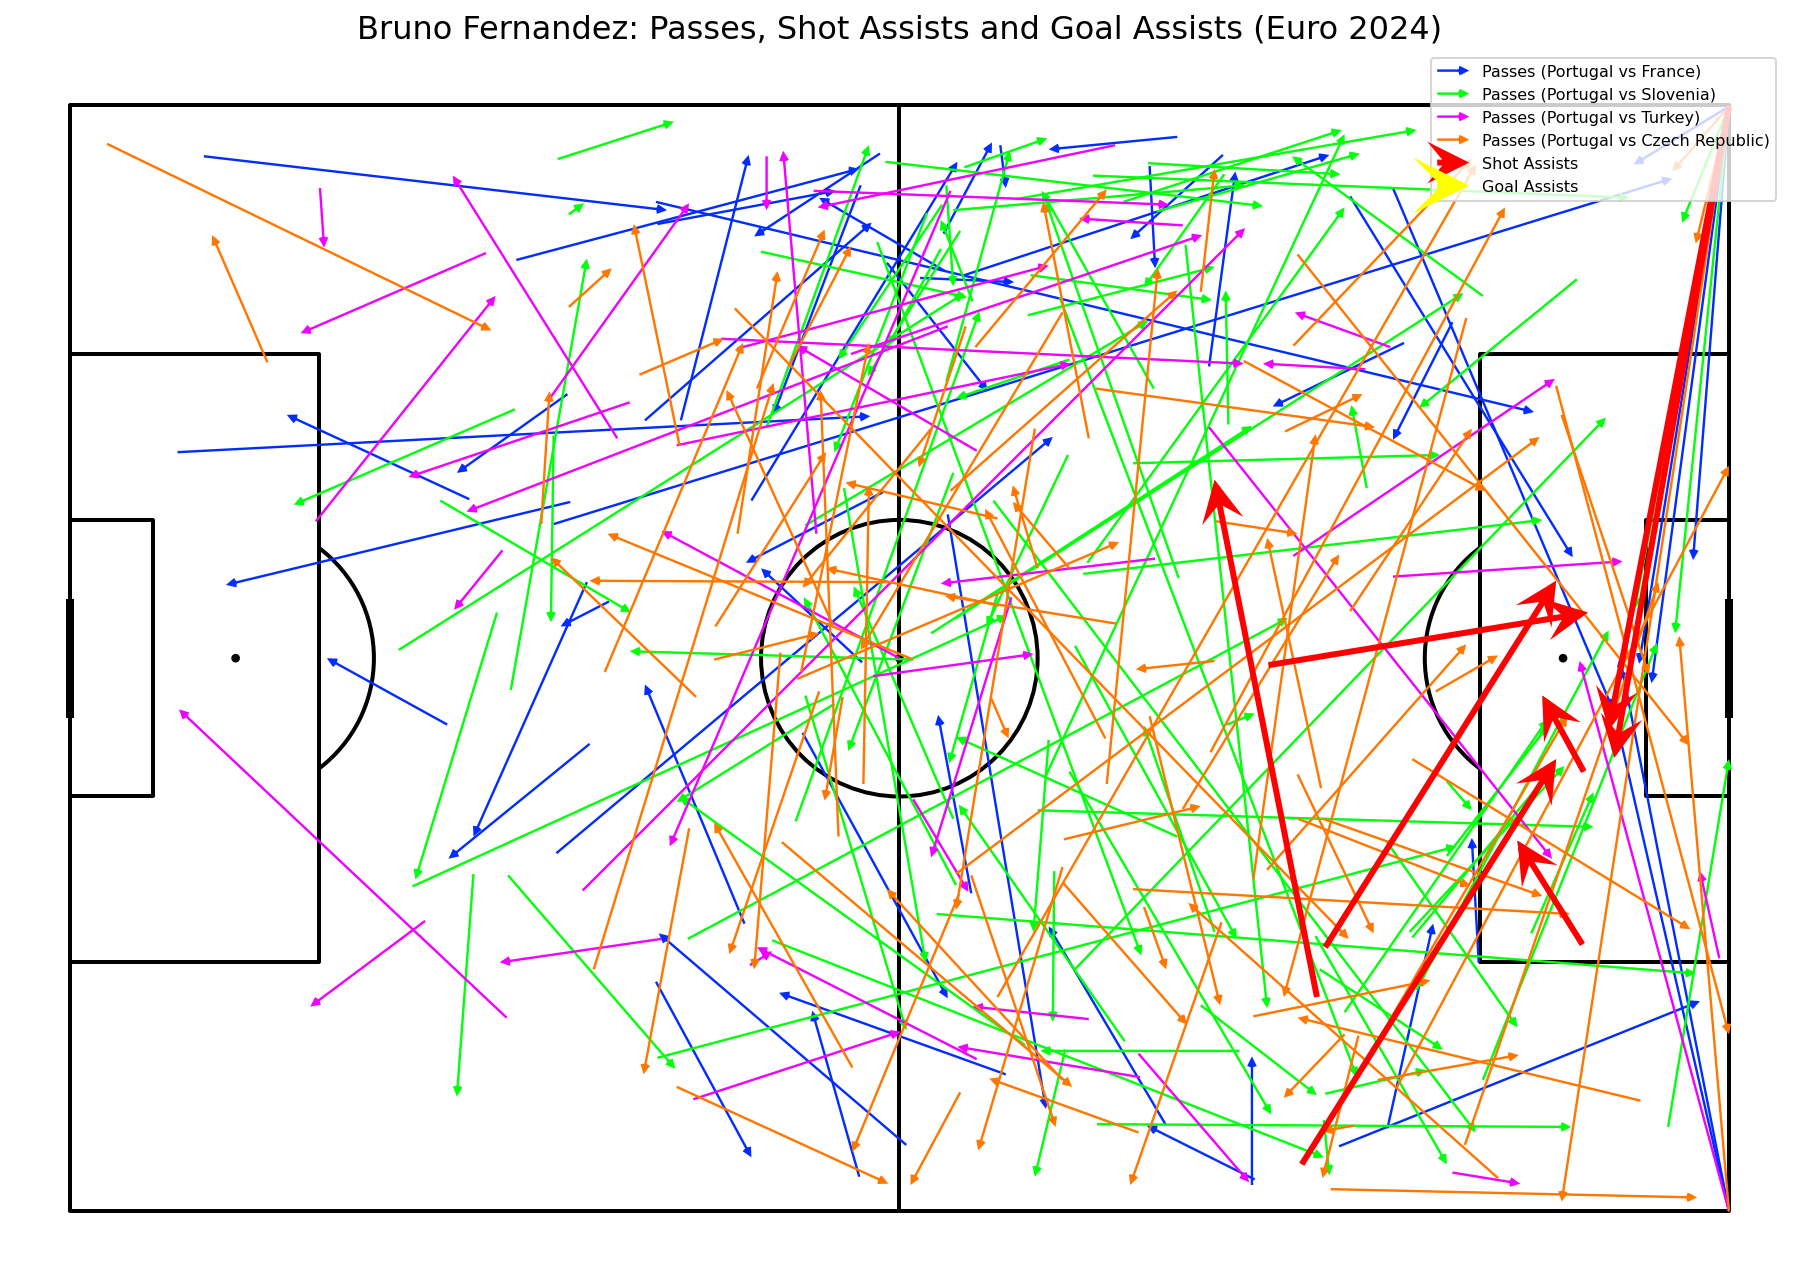
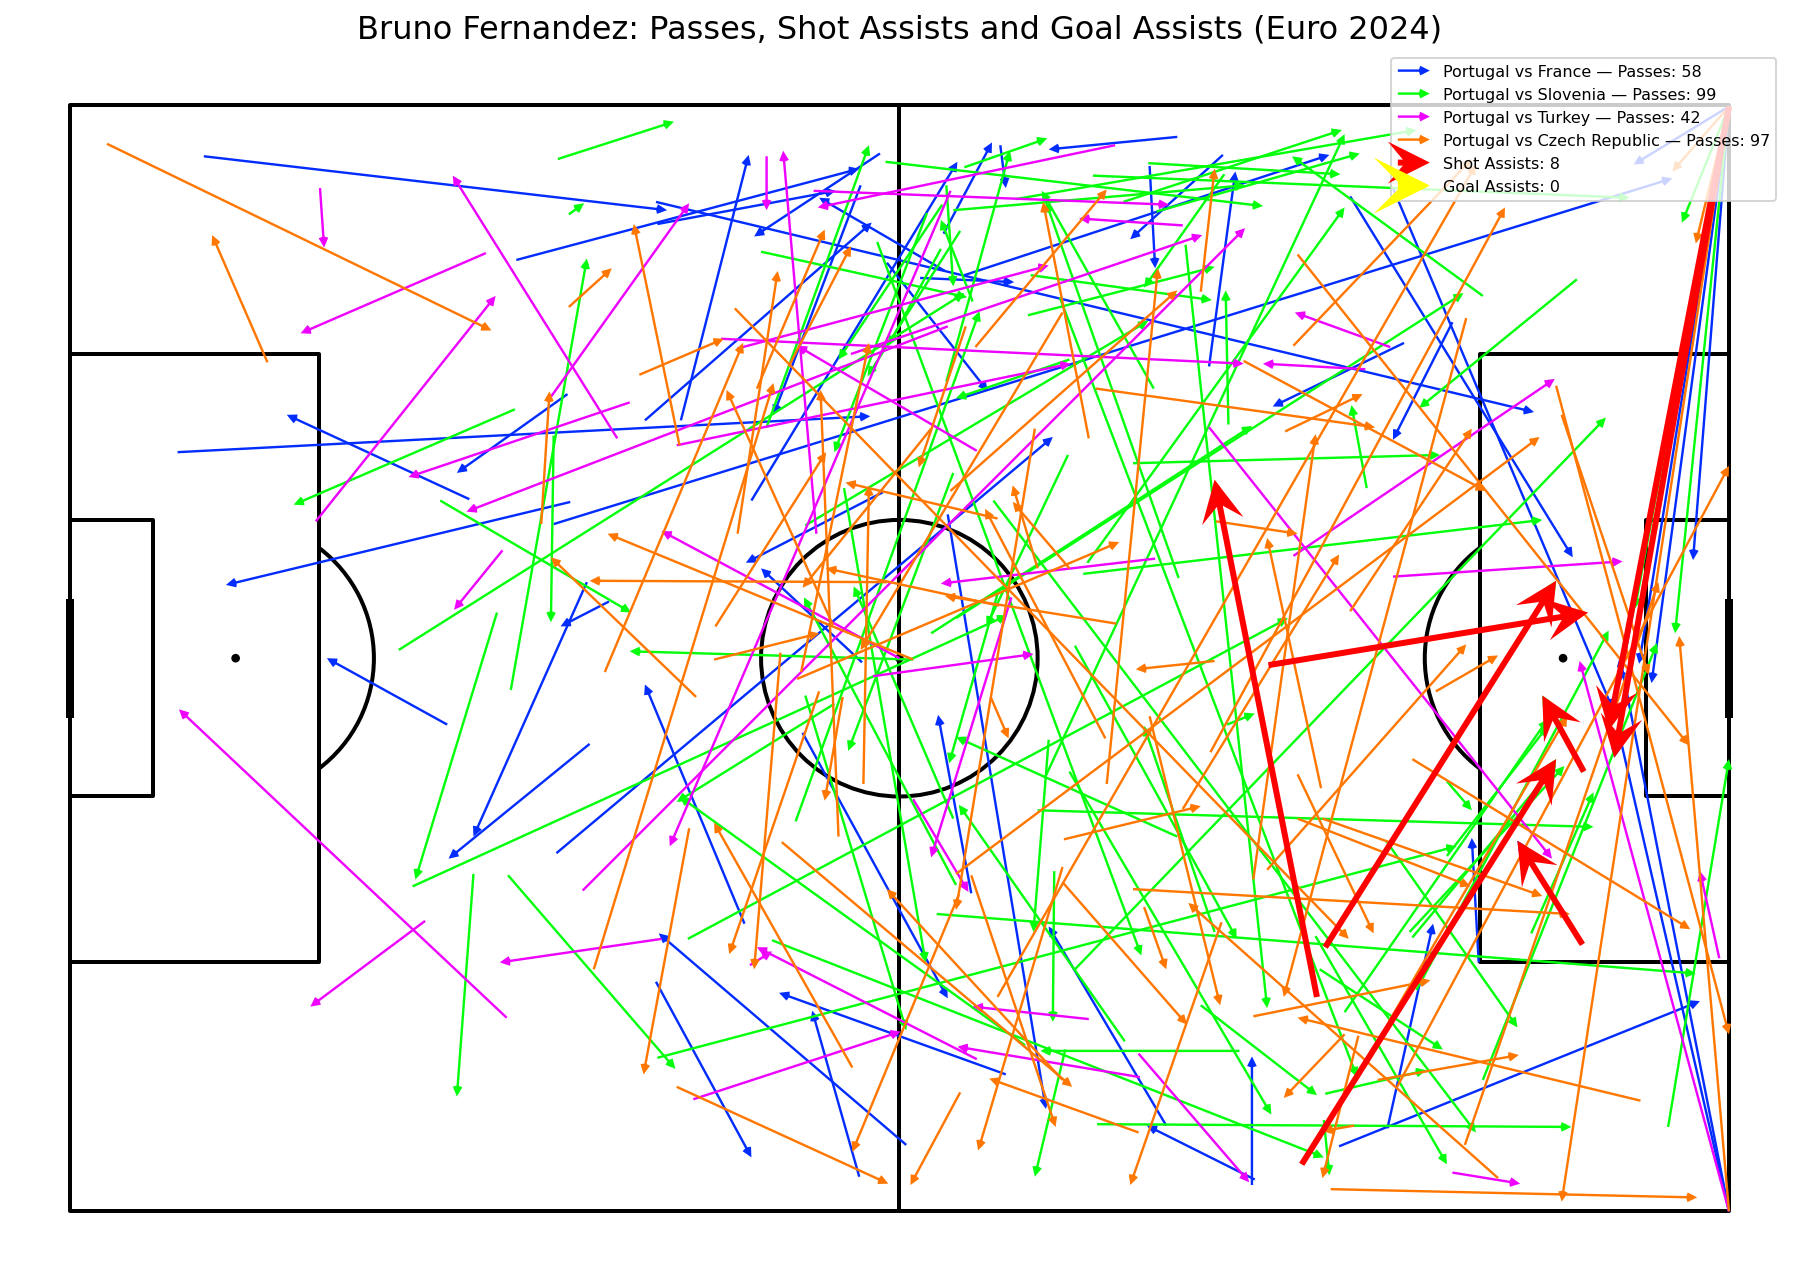
Number of passes added to the pitchmap.

Changed region(s): [[0.7475, 0.0312, 0.9967, 0.1561]]

diff --git a/Project1/Bruno'sPass.py b/Project1/Bruno'sPass.py
@@ -18,7 +18,7 @@ match_team_names = {}
 
 for idx, m_id in enumerate(match_ids):
     df, related, freeze, tactics = parser.event(m_id)
-    df['match_id'] = m_id  # ✅ ensure match_id exists
+    df['match_id'] = m_id 
     all_events.append(df)
 
     teams = df['team_name'].dropna().unique().tolist()
@@ -61,9 +61,11 @@ color_map = dict(zip(match_ids, colors))
 pitch = Pitch(pitch_type='statsbomb', line_color='black')
 fig, ax = pitch.draw(figsize=(14, 9))
 
-# Normal passes
+# Normal passes (with counts in legend)
 for m_id in match_ids:
     match_passes = passes[passes['match_id'] == m_id]
+
+    pass_count = len(match_passes)
 
     pitch.arrows(
         match_passes['x'], match_passes['y'],
@@ -72,7 +74,7 @@ for m_id in match_ids:
         width=1.2, headwidth=4, headlength=4,
         color=color_map[m_id],
         alpha=1.00,
-        label=f"Passes ({match_team_names[m_id]})"
+        label=f"{match_team_names[m_id]} — Passes: {pass_count}"
     )
 
 # Shot assists (red)
@@ -82,7 +84,7 @@ pitch.arrows(
     ax=ax,
     width=3, headwidth=7, headlength=7,
     color='red', alpha=1.0,
-    label="Shot Assists"
+    label=f"Shot Assists: {len(shot_assists)}"
 )
 
 # Goal assists (yellow)
@@ -92,7 +94,7 @@ pitch.arrows(
     ax=ax,
     width=3.5, headwidth=8, headlength=8,
     color='yellow', alpha=1.0,
-    label="Goal Assists"
+    label=f"Goal Assists: {len(goal_assists)}"
 )
 
 plt.title(f"{player_name}: Passes, Shot Assists and Goal Assists (Euro 2024)", fontsize=16)
